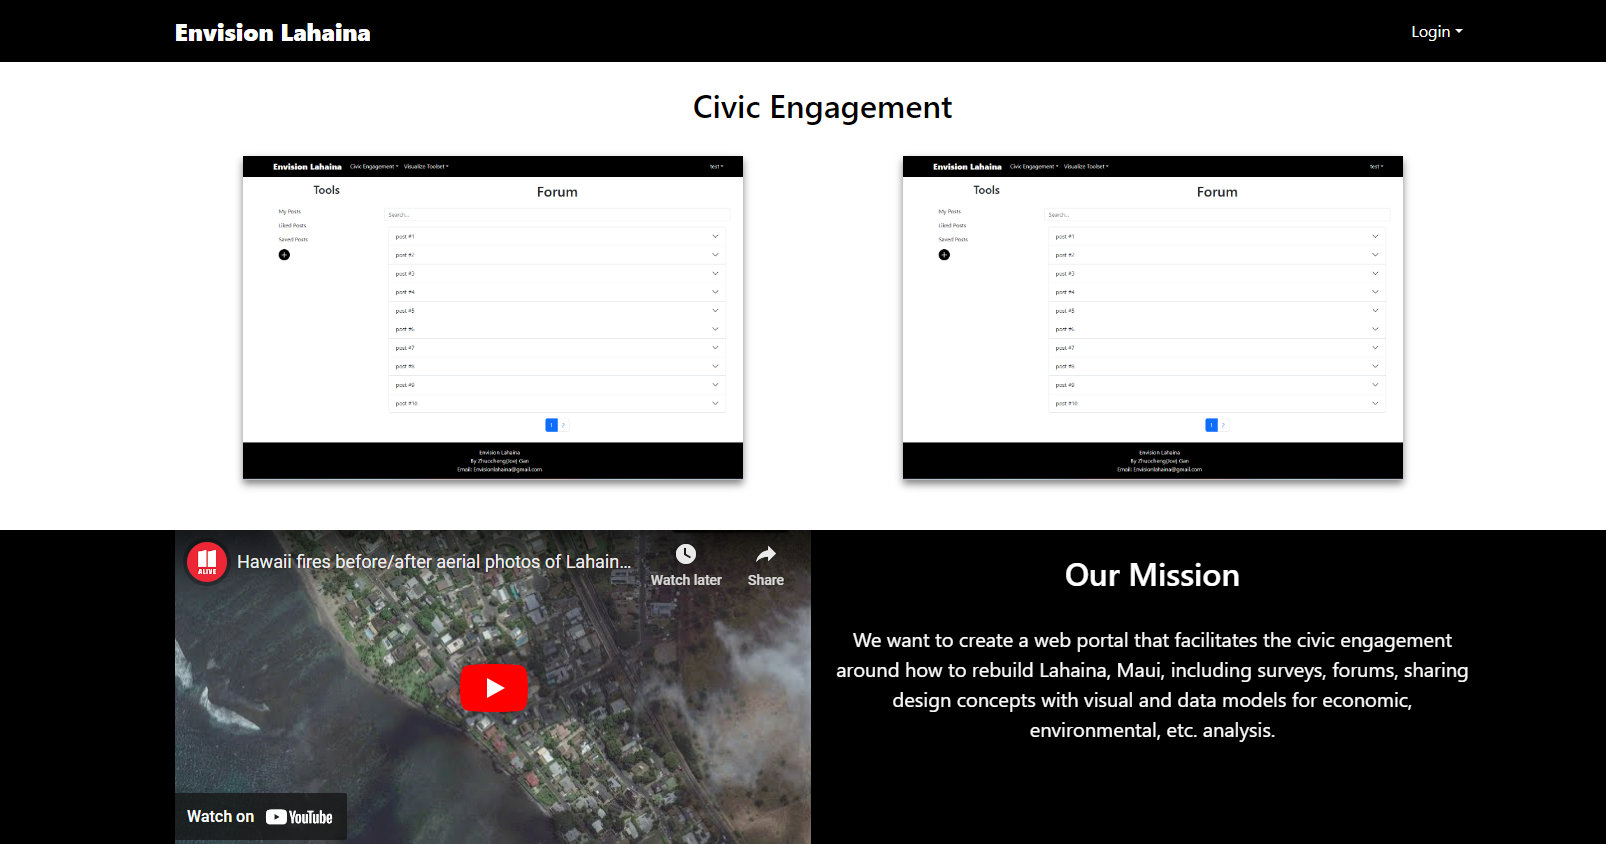
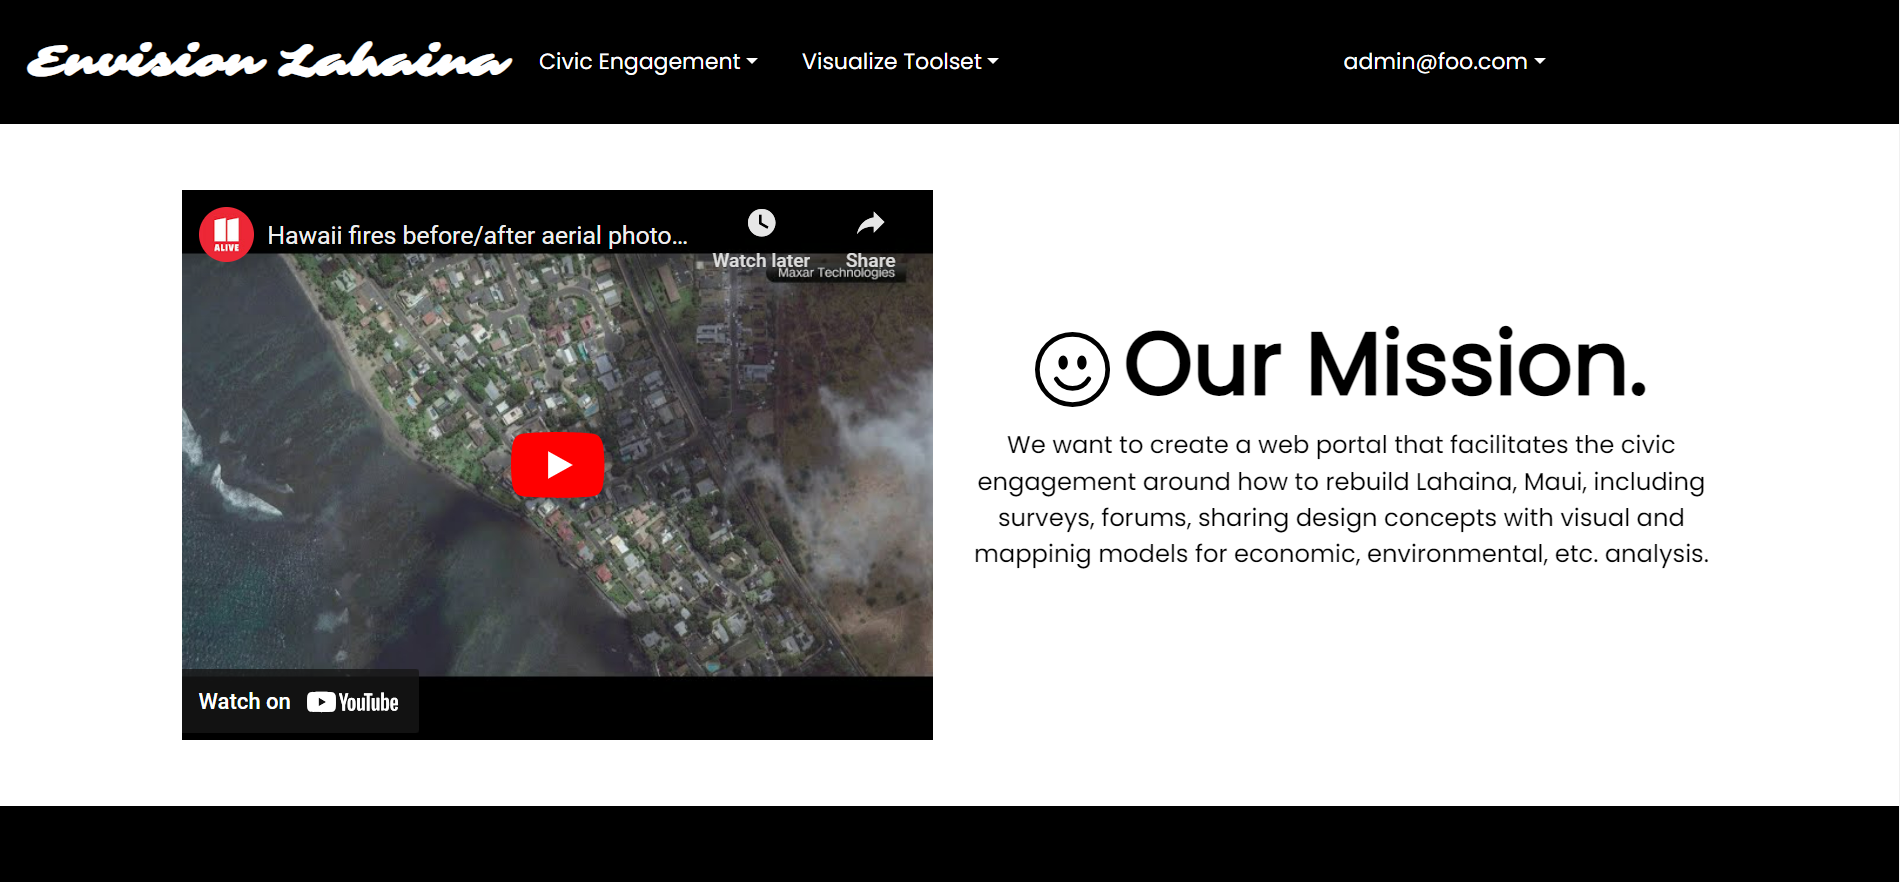
Change

diff --git a/index.md b/index.md
@@ -1,6 +1,7 @@
 ## Outline
 - Survey
 - Forum
+- Collaborative Platform
 - Generative AI (Image AI)
 - GIS and Mapping Features
 
@@ -8,18 +9,9 @@
 1. Mapping software (GIS)
 2. Map Modeling tools, art sketching for 2d concepts (AI image/model
    generation for prototyping buildings, landscape)
-4. Community Engagement (discussion forums linked to models, surveys,
-   https://pol.is, http://www.hierr.online )
-5. Economic and Environmental Simulation/Analysis Tools
+4. Community Engagement (discussion forums linked to models, surveys)
+5. Economic and Environmental Analysis Tools
 6. Online and in-person shared digital spaces
-
-## Basic Flow
-1. Users enter website (or in-person room) to view model
-2. User engages with Surveys, adding to sentiment, values,
-3. User explores virtual Lahainas
-4. User provides feedback comments, engages with discussions
-5. Community immersive events to share scenarios
-6. Lahaina economy and housing reopens before 2030
 
 ## Contract link
 Google Doc: https://docs.google.com/document/d/1OkHVLfvYzdDmIIxS3qWZuMIPUi7U8FvqCDTSmxmRDzE/edit?usp=sharing
@@ -43,7 +35,7 @@ https://github.com/orgs/envision-lahaina/projects/2
 
 https://github.com/orgs/envision-lahaina/projects/5
 
-## Overview
+## Page Overview
 
 We want to create a web portal that facilitates the civic engagement around how to rebuild Lahaina, Maui, including surveys, forums, sharing design concepts with visual and data models for economic, environmental, etc. analysis.
 
@@ -51,13 +43,13 @@ We want to create a web portal that facilitates the civic engagement around how 
 
 The landing page for any new visitors or user who have not logged in yet. Vistior have options to sign up or sign in.
 
-![](doc/Landing-Fixed.png)
+![](doc/Landing-Page-2.png)
 
 ## Home Page
 
 The Home Page is the first page that users will see when they Login, no other feature will be accessible unless user is signed in
 
-![](doc/Home-fixed.png)
+![](doc/Landing-Page.png)
 
 ## Civic Engagement
 
@@ -82,6 +74,11 @@ User have an option to add, edit or delete their profile. This is a page demonst
 
 ### Visualize Toolset
 
+#### Map-Modeling
+
+Collaborative Platform allowing user to add their design concept. Ping or search any location to view other or add your own design concepts!
+
+![](doc/Model-Page.png)
 
 #### Generative-AI
 
@@ -94,21 +91,17 @@ Generative AI powered by Dall-E3, user give a prompt regarding their design or t
 
 Embeded Gis Map with data visualization and 360 VR of scenes in Lahaina.
 
-
-![](doc/Embedded-VR.png)
-
-
-#### Map-Modeling
-
-Collaborative platform for user to add design ideas by searching or pinning an specific location on the map.
-
-
-![](doc/map-modeling.png)
+![](doc/VR-Page.png)
 
 #### External
 
 Exteral Resources for user to learn more about Lahaina and access useful resources.
 
+## Additional Feature
+
+- Sign-in/up/out
+- Add/Edit/Delete Profile
+- Text moderation 24/7 hours, admin-free
 
 ### Developer Guide
 
